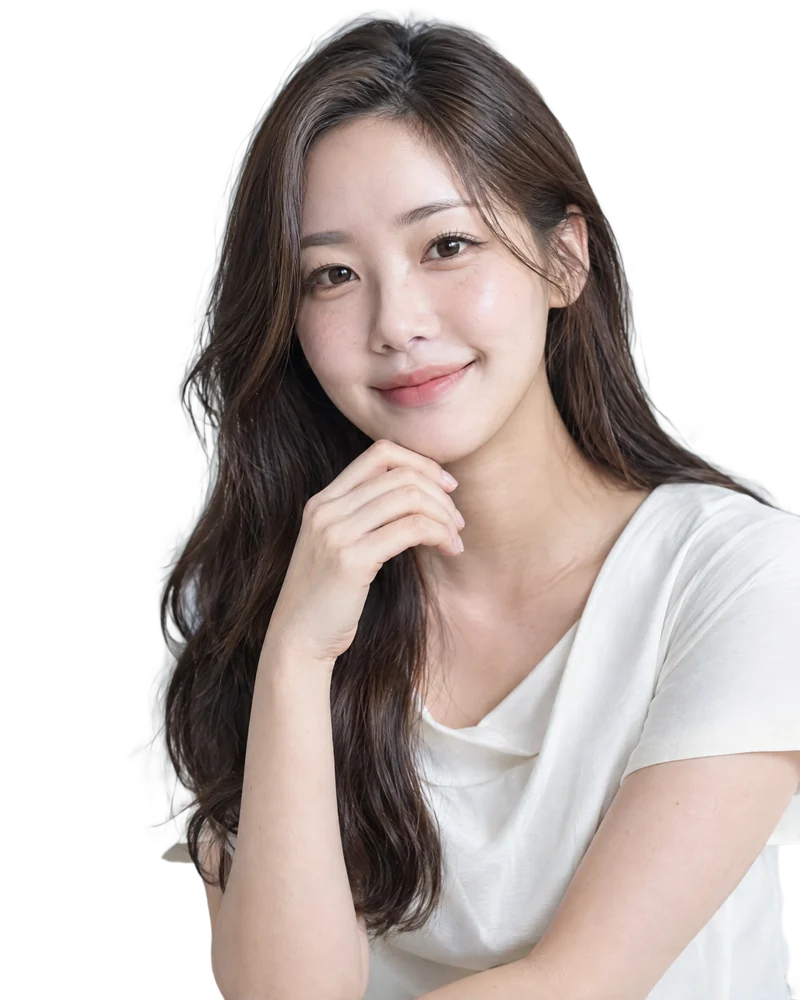
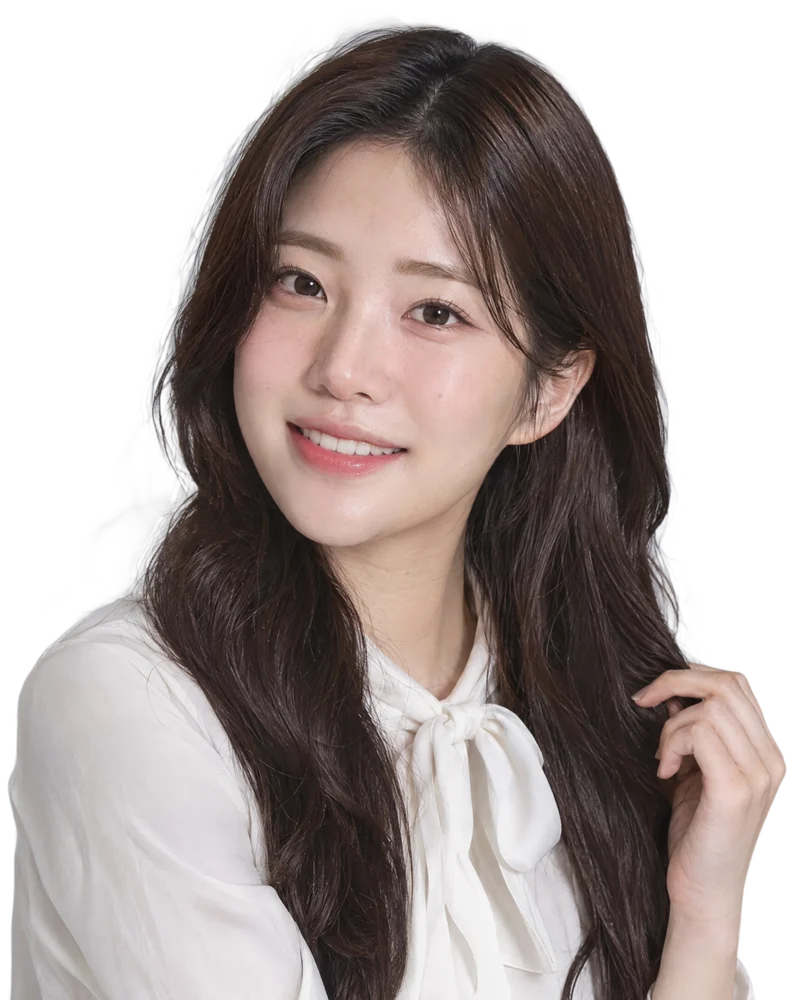
DOOGO CLASS 유나: use option 3 photo (white bow blouse)
Claude-Session: https://claude.ai/code/session_01QiS8qxkcQBgeuomLZdJMad

diff --git a/class/README.md b/class/README.md
@@ -309,7 +309,7 @@ DOOGO CLASS 관리 메뉴는 **주문 · 결제** · **환불 · 취소 관리**
 
 ## DOOGO CLASS 전용 강사 이름 · 사진 (두잉고 초이 → DOOGO CLASS 유나)
 
-- 초이 강사는 아직 DOOGO CLASS 정식 계약 전이라, **스토어(테스트 클래스)에서는 ‘유나’**로 보여요. 사진은 AI로 만든 가상 인물(`assets/vod/yuna-profile-v2.webp`, 800×1000 투명 배경 · 흰 블라우스 · 실제 프로필 사진 느낌 — 초이 얼굴을 닮게 만들지는 않았어요). **두잉고(강사 플랫폼 · 강사 카드 · 강사 소개 · 무료강의 페이지)는 초이 이름 · 사진 그대로**예요. 강의 내용은 그대로예요.
+- 초이 강사는 아직 DOOGO CLASS 정식 계약 전이라, **스토어(테스트 클래스)에서는 ‘유나’**로 보여요. 사진은 AI로 만든 가상 인물(`assets/vod/yuna-profile-v2.webp`, 800×1000 투명 배경 · 흰 리본 블라우스 · 실제 프로필 사진 느낌 — 초이 얼굴을 닮게 만들지는 않았어요). **두잉고(강사 플랫폼 · 강사 카드 · 강사 소개 · 무료강의 페이지)는 초이 이름 · 사진 그대로**예요. 강의 내용은 그대로예요.
 - 구조: `vod.js`의 `STORE_AS = { choi: { name, slug, photo, field } }` — 두잉고 강사 계정(iid `choi`)은 그대로 두고 스토어에서만 이름 · 사진 · 분야를 바꿔 보여요. 스토어는 이 강사의 두잉고 SNS · 경력 · 두잉고 무료강의/기수 페이지 링크 · ‘두잉고 기수 강의’ 안내를 쓰지 않아요. 강사 페이지 주소는 `#/vod/teachers/yuna`(예전 `…/choi` 주소도 열려요). 다른 강사도 같은 방식으로 이름 · 사진을 따로 둘 수 있어요(`STORE_AS`에 한 줄).
 - 마스터 › DOOGO CLASS 화면(클래스 · 정산 비율 · 광고비 · 회원 태그 · 판매 순위)도 유나로 보여요. 클래스 편집의 ‘연결된 두잉고 강사’ 칸은 `유나 · 두잉고 초이 (로그인 이름)`처럼 함께 보여요(정산은 두잉고 계정 기준 그대로).
 - 운영 데이터: 일회성 작업 `2026-11-01-store-choi-to-yuna` 가 스토어 데이터(상품 강사 이름 · 분야 ‘AI 굿즈 크리에이터’ · 소개의 ‘긱스쿨’ 문구 · 무료 LIVE 이름 · 배너 · 회원 태그 ‘유나 팬’) · 결제 가격표 · 주문 상품 이름 · 회원 태그를 바꿔요. 두잉고 강사 계정(`ins:choi`) · 콘텐츠(`content:choi`)는 건드리지 않고, ‘초이스’ 같은 다른 낱말도 그대로. 예전 데이터를 가진 브라우저는 화면이 같은 일을 한 번 해요(v22).

diff --git a/dist/class/README.md b/dist/class/README.md
@@ -309,7 +309,7 @@ DOOGO CLASS 관리 메뉴는 **주문 · 결제** · **환불 · 취소 관리**
 
 ## DOOGO CLASS 전용 강사 이름 · 사진 (두잉고 초이 → DOOGO CLASS 유나)
 
-- 초이 강사는 아직 DOOGO CLASS 정식 계약 전이라, **스토어(테스트 클래스)에서는 ‘유나’**로 보여요. 사진은 AI로 만든 가상 인물(`assets/vod/yuna-profile-v2.webp`, 800×1000 투명 배경 · 흰 블라우스 · 실제 프로필 사진 느낌 — 초이 얼굴을 닮게 만들지는 않았어요). **두잉고(강사 플랫폼 · 강사 카드 · 강사 소개 · 무료강의 페이지)는 초이 이름 · 사진 그대로**예요. 강의 내용은 그대로예요.
+- 초이 강사는 아직 DOOGO CLASS 정식 계약 전이라, **스토어(테스트 클래스)에서는 ‘유나’**로 보여요. 사진은 AI로 만든 가상 인물(`assets/vod/yuna-profile-v2.webp`, 800×1000 투명 배경 · 흰 리본 블라우스 · 실제 프로필 사진 느낌 — 초이 얼굴을 닮게 만들지는 않았어요). **두잉고(강사 플랫폼 · 강사 카드 · 강사 소개 · 무료강의 페이지)는 초이 이름 · 사진 그대로**예요. 강의 내용은 그대로예요.
 - 구조: `vod.js`의 `STORE_AS = { choi: { name, slug, photo, field } }` — 두잉고 강사 계정(iid `choi`)은 그대로 두고 스토어에서만 이름 · 사진 · 분야를 바꿔 보여요. 스토어는 이 강사의 두잉고 SNS · 경력 · 두잉고 무료강의/기수 페이지 링크 · ‘두잉고 기수 강의’ 안내를 쓰지 않아요. 강사 페이지 주소는 `#/vod/teachers/yuna`(예전 `…/choi` 주소도 열려요). 다른 강사도 같은 방식으로 이름 · 사진을 따로 둘 수 있어요(`STORE_AS`에 한 줄).
 - 마스터 › DOOGO CLASS 화면(클래스 · 정산 비율 · 광고비 · 회원 태그 · 판매 순위)도 유나로 보여요. 클래스 편집의 ‘연결된 두잉고 강사’ 칸은 `유나 · 두잉고 초이 (로그인 이름)`처럼 함께 보여요(정산은 두잉고 계정 기준 그대로).
 - 운영 데이터: 일회성 작업 `2026-11-01-store-choi-to-yuna` 가 스토어 데이터(상품 강사 이름 · 분야 ‘AI 굿즈 크리에이터’ · 소개의 ‘긱스쿨’ 문구 · 무료 LIVE 이름 · 배너 · 회원 태그 ‘유나 팬’) · 결제 가격표 · 주문 상품 이름 · 회원 태그를 바꿔요. 두잉고 강사 계정(`ins:choi`) · 콘텐츠(`content:choi`)는 건드리지 않고, ‘초이스’ 같은 다른 낱말도 그대로. 예전 데이터를 가진 브라우저는 화면이 같은 일을 한 번 해요(v22).
